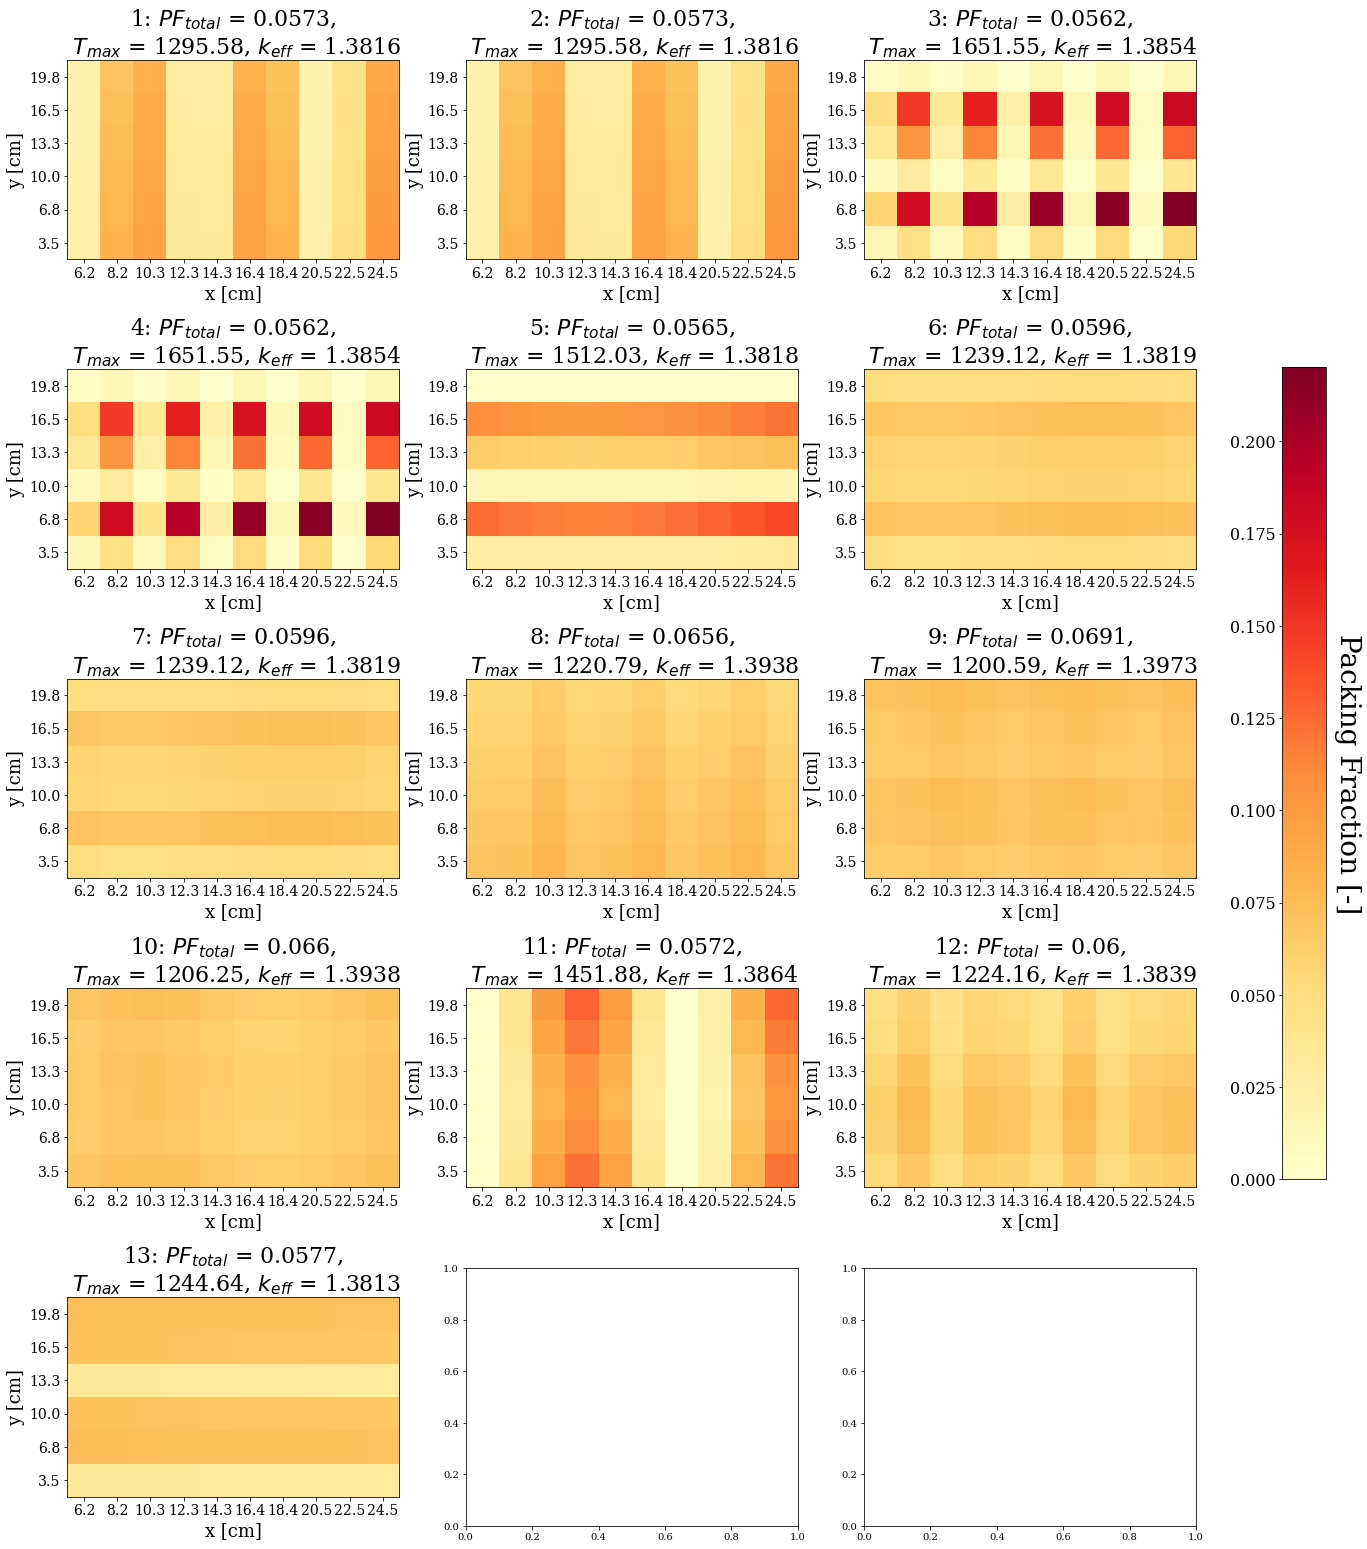
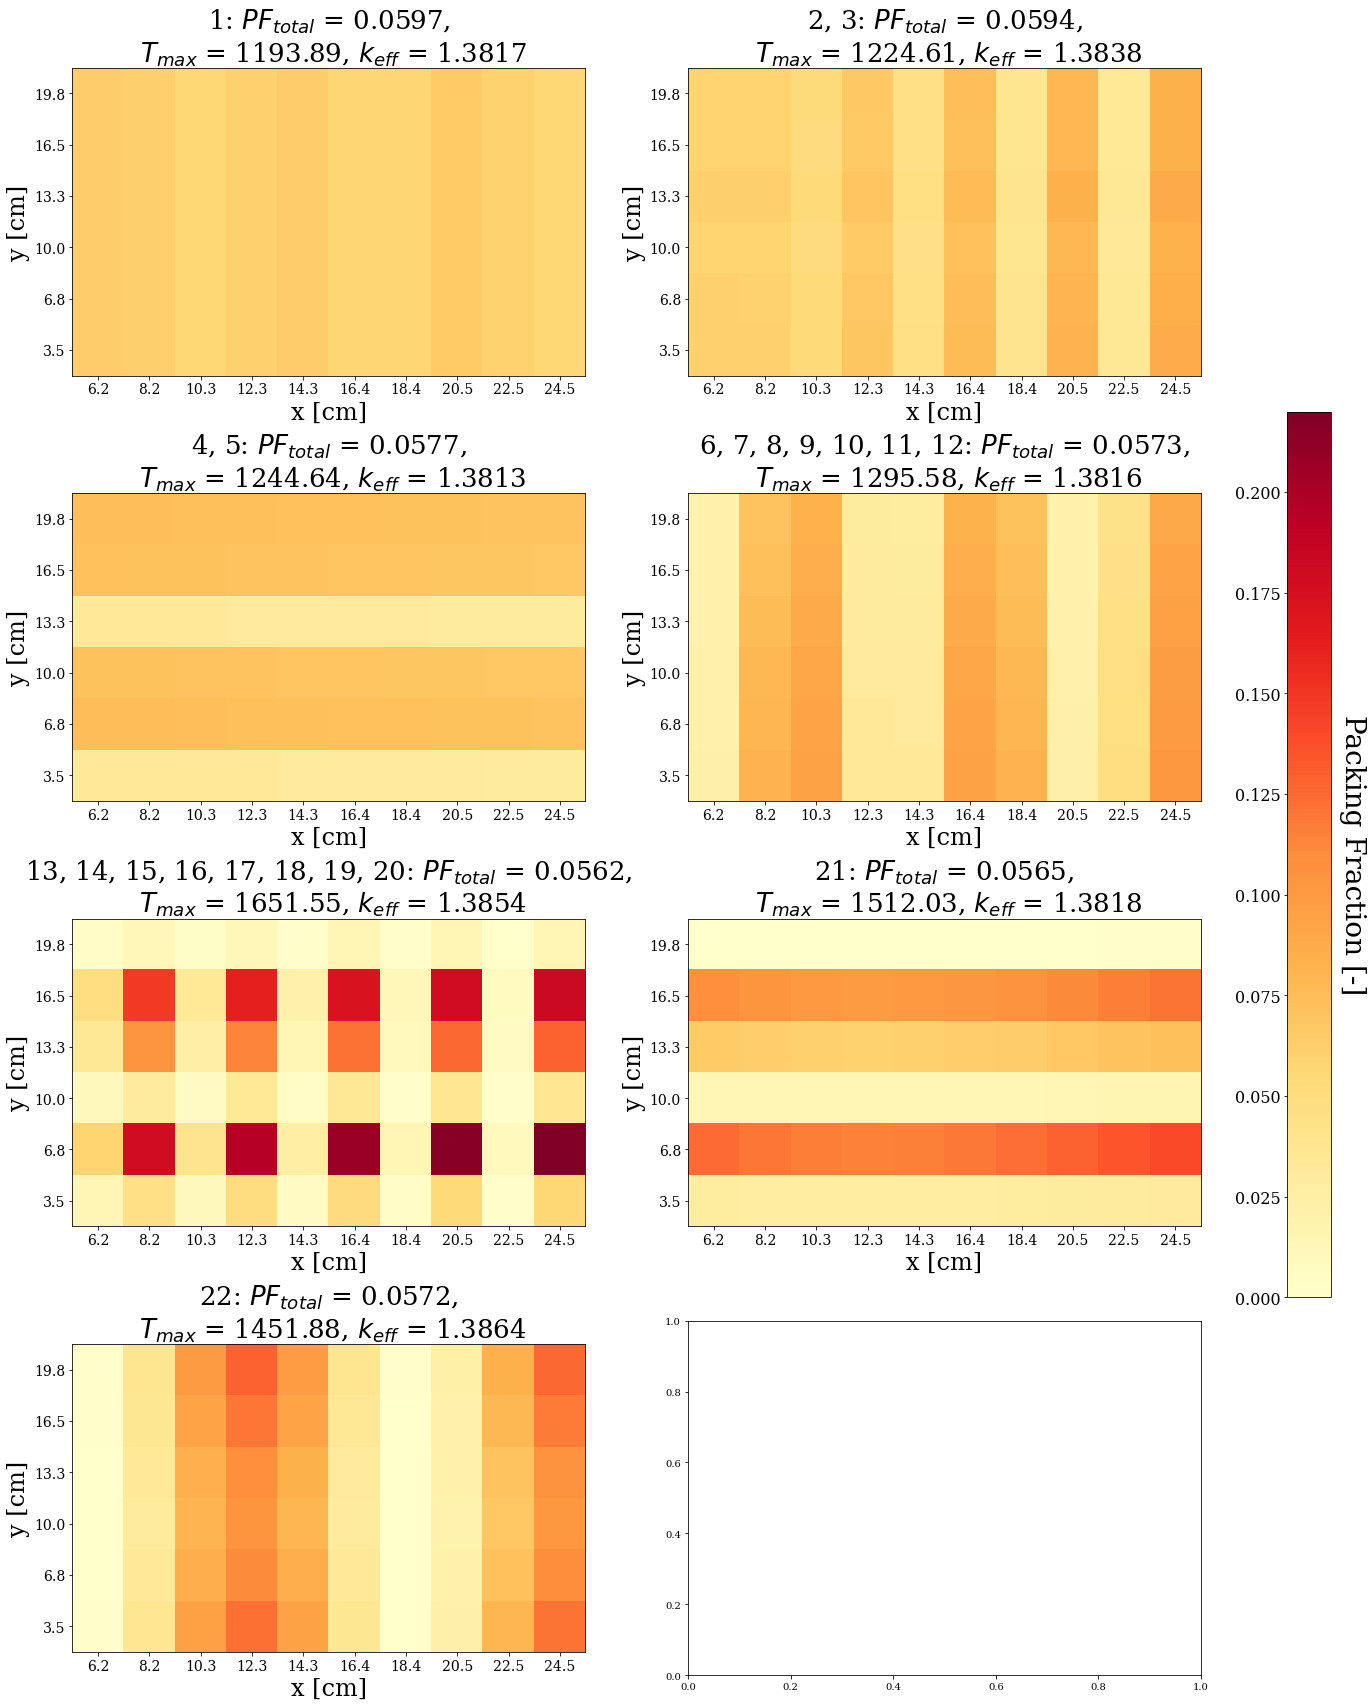
writing

diff --git a/docs/ahtr_rollo_assem.tex b/docs/ahtr_rollo_assem.tex
@@ -748,7 +748,7 @@ distributions in the final generation that fall on the Pareto front.
     \ContinuedFloat
     \begin{subfigure}{\textwidth}
         \centering
-        \includegraphics[width=\linewidth]{assem-obj-2-pftemp-pareto-distr.png}
+        \includegraphics[width=0.95\linewidth]{assem-obj-2-pftemp-pareto-distr.png}
         \caption{TRISO distribution for the 13 reactor models on the Pareto front.
         Numbered reactor models correspond to numbered crosses in the plot above. }
         \label{fig:assem-obj-2-pftemp-pareto-distr} 
@@ -765,8 +765,8 @@ distributions in the final generation that fall on the Pareto front.
 Figure \ref{fig:assem-obj-2-pftemp-pareto} shows that minimize $PF_{total}$ and 
 minimize $T_{max}$ are contrasting objectives. 
 In Figure \ref{fig:assem-obj-2-pftemp}, the one-third assembly model with the 
-most-minimized $PF_{total}$ and highest $T_{max}$ is reactor models 3 and 4. 
-Both models have an oscillating TRISO distribution along the both the 
+most-minimized $PF_{total}$ and highest $T_{max}$ are reactor models 13 to 20. 
+These models have an oscillating TRISO distribution along the both the 
 x-axis and y-axis, and a packing fraction standard deviation of $0.066$ across the 
 one-third assembly. 
 Along the x-axis, the distribution peaks at the even fuel cell columns (at 8.2cm,  
@@ -776,8 +776,8 @@ The even fuel cell columns have a $\sim0.18$ y-axis variation with peaks of
 $PF\approx0.21$. 
 
 In Figure \ref{fig:assem-obj-2-pftemp}, the one-third assembly model with the 
-most-minimized $T_{max}$ and highest $PF_{total}$ is reactor model 9. 
-Reactor model 9 has an almost constant TRISO packing fraction distribution with 
+most-minimized $T_{max}$ and highest $PF_{total}$ is reactor model 1. 
+Reactor model 1 has an almost constant TRISO packing fraction distribution with 
 a packing fraction standard deviation of $0.003$ across the one-third assembly. 
 The one-third assembly model that visually from the Pareto Front (Figure 
 \ref{fig:assem-obj-2-pftemp-pareto}) minimizes both $PF_{total}$ and $T_{max}$ 
